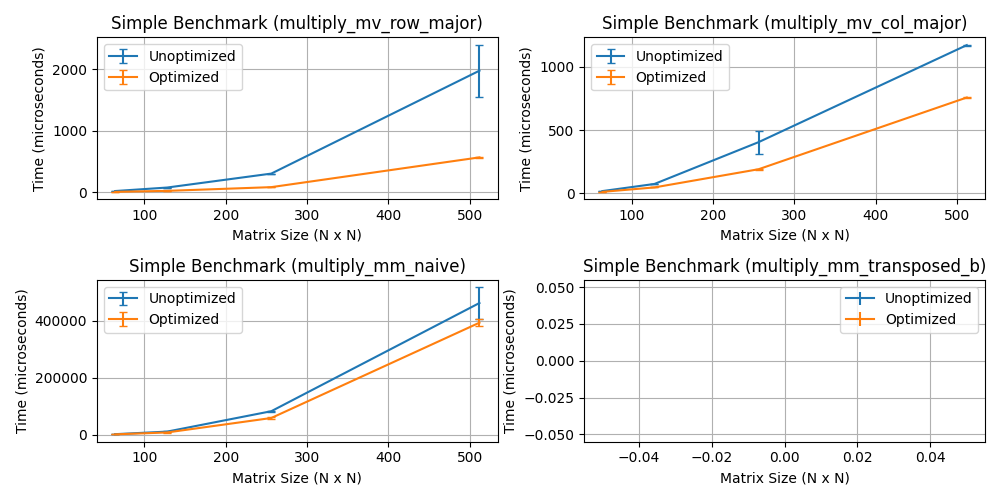
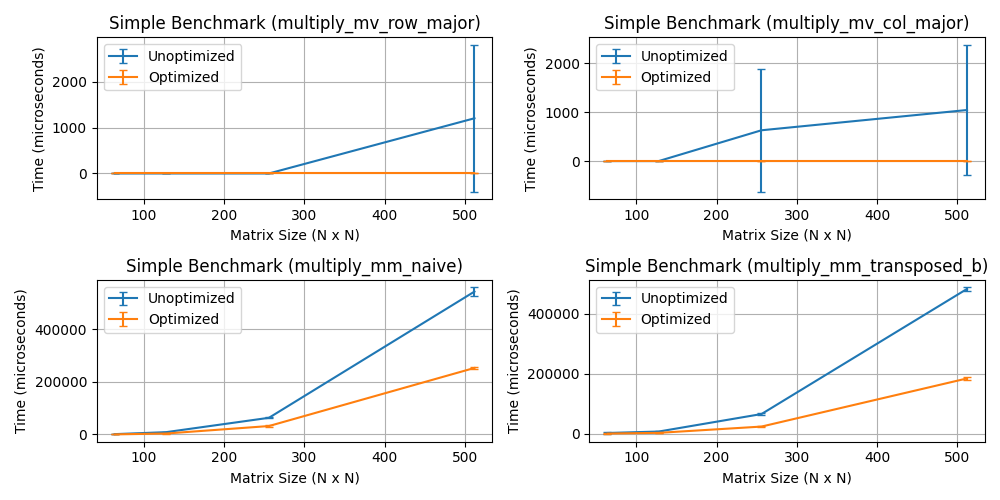
Added last function/updated graphs/csv

diff --git a/phase_1/src.cpp b/phase_1/src.cpp
@@ -233,3 +233,51 @@ void multiply_mm_naive_opt(const double* matrixA, int rowsA, int colsA, const do
         }
     }
 }
+void multiply_mm_transposed_b(const double* matrixA, int rowsA, int colsA, const double* matrixB_transposed, int rowsB, int colsB, double* result){
+    if (!matrixA) throw std::invalid_argument("matrixA pointer is null.");
+    if (!matrixB_transposed) throw std::invalid_argument("matrixB_transposed pointer is null.");
+    if (!result) throw std::invalid_argument("result pointer is null.");
+    if (rowsA <= 0) throw std::invalid_argument("rowsA must be positive.");
+    if (colsA <= 0) throw std::invalid_argument("colsA must be positive.");
+    if (rowsB <= 0) throw std::invalid_argument("rowsB must be positive.");
+    if (colsB <= 0) throw std::invalid_argument("colsB must be positive.");
+    if (colsA != rowsB) throw std::invalid_argument("dimension mismatch.");
+    std::fill(result, result + (rowsA * colsB), 0.0);
+    for(int i = 0; i < rowsA; ++i){
+        for(int j = 0; j < colsB; ++j){
+            double sum = 0.0;
+            for(int k = 0; k < colsA; ++k){
+                sum += matrixA[i * colsA + k] * matrixB_transposed[j * rowsB + k];
+            }
+            result[i * colsB + j] = sum;
+        }
+    }
+}
+
+void multiply_mm_transposed_b_opt(const double* matrixA, int rowsA, int colsA, const double* matrixB_transposed, int rowsB, int colsB, double* result){
+    if (!matrixA) throw std::invalid_argument("matrixA pointer is null.");
+    if (!matrixB_transposed) throw std::invalid_argument("matrixB_transposed pointer is null.");
+    if (!result) throw std::invalid_argument("result pointer is null.");
+    if (rowsA <= 0) throw std::invalid_argument("rowsA must be positive.");
+    if (colsA <= 0) throw std::invalid_argument("colsA must be positive.");
+    if (rowsB <= 0) throw std::invalid_argument("rowsB must be positive.");
+    if (colsB <= 0) throw std::invalid_argument("colsB must be positive.");
+    if (colsA != rowsB) throw std::invalid_argument("dimension mismatch.");
+    std::fill(result, result + (rowsA * colsB), 0.0);
+    for(int i = 0; i < rowsA; ++i){
+        for(int j = 0; j < colsB; ++j){
+            double s1 = 0.0, s2 = 0.0, s3 = 0.0, s4 = 0.0;
+            int k = 0;
+            for(; k <= colsA - 4; k += 4){
+                s1 += matrixA[i * colsA + (k + 0)] * matrixB_transposed[j * rowsB + (k + 0)];
+                s2 += matrixA[i * colsA + (k + 1)] * matrixB_transposed[j * rowsB + (k + 1)];
+                s3 += matrixA[i * colsA + (k + 2)] * matrixB_transposed[j * rowsB + (k + 2)];
+                s4 += matrixA[i * colsA + (k + 3)] * matrixB_transposed[j * rowsB + (k + 3)];
+            }
+            for(; k < colsA; ++k){
+                s1 += matrixA[i * colsA + k] * matrixB_transposed[j * rowsB + k];
+            }
+            result[i * colsB + j] = s1 + s2 + s3 + s4;
+        }
+    }
+}

diff --git a/phase_1/tests/test_src.cpp b/phase_1/tests/test_src.cpp
@@ -111,48 +111,43 @@ TEST_CASE("2x3 x 3x2, naive_opt", "[multiply_mm_naive_opt]")
     delete[] res;
 }
 
-// TEST_CASE("2x3 x 3x2, transposed B", "[multiply_mm_transposed_b]")
-// {
-//     double matrixA[] = {
-//         1.0, 2.0, 3.0,
-//         4.0, 5.0, 6.0
-//     };
-//     // This is the transpose of the same B (7,8; 9,10; 11,12),
-//     // so B_transposed is 2 x 3
-//     double matrixB_t[] = {
-//         7.0,  9.0,  11.0,
-//         8.0, 10.0,  12.0
-//     };
-//     double* res = new double[2 * 2];
+TEST_CASE("2x3 x 3x2, transposed B", "[multiply_mm_transposed_b]")
+{
+    double matrixA[] = {
+        1.0, 2.0, 3.0,
+        4.0, 5.0, 6.0
+    };
+    double matrixB_t[] = {
+        7.0,  9.0,  11.0,
+        8.0, 10.0,  12.0
+    };
+    double* res = new double[2 * 2];
+    multiply_mm_transposed_b(matrixA, 2, 3, matrixB_t, 3, 2, res);
+    REQUIRE(approx_equal_dbl(res[0], 58.0));
+    REQUIRE(approx_equal_dbl(res[1], 64.0));
+    REQUIRE(approx_equal_dbl(res[2], 139.0));
+    REQUIRE(approx_equal_dbl(res[3], 154.0));
+    delete[] res;
+}
 
-//     multiply_mm_transposed_b(matrixA, 2, 3, matrixB_t, 3, 2, res);
+TEST_CASE("2x3 x 3x2, transposed B opt", "[multiply_mm_transposed_b_opt]")
+{
+    double matrixA[] = {
+        1.0, 2.0, 3.0,
+        4.0, 5.0, 6.0
+    };
+    double matrixB_t[] = {
+        7.0,  9.0,  11.0,
+        8.0, 10.0,  12.0
+    };
+    double* res = new double[2 * 2];
+    multiply_mm_transposed_b_opt(matrixA, 2, 3, matrixB_t, 3, 2, res);
+    REQUIRE(approx_equal_dbl(res[0], 58.0));
+    REQUIRE(approx_equal_dbl(res[1], 64.0));
+    REQUIRE(approx_equal_dbl(res[2], 139.0));
+    REQUIRE(approx_equal_dbl(res[3], 154.0));
+    delete[] res;
+}
 
-//     REQUIRE(approx_equal_dbl(res[0],  58.0));
-//     REQUIRE(approx_equal_dbl(res[1],  64.0));
-//     REQUIRE(approx_equal_dbl(res[2], 139.0));
-//     REQUIRE(approx_equal_dbl(res[3], 154.0));
+        
 
-//     delete[] res;
-// }
-
-// TEST_CASE("2x3 x 3x2, transposed B opt", "[multiply_mm_transposed_b_opt]")
-// {
-//     double matrixA[] = {
-//         1.0, 2.0, 3.0,
-//         4.0, 5.0, 6.0
-//     };
-//     double matrixB_t[] = {
-//         7.0,  9.0,  11.0,
-//         8.0, 10.0,  12.0
-//     };
-//     double* res = new double[2 * 2];
-
-//     multiply_mm_transposed_b_opt(matrixA, 2, 3, matrixB_t, 3, 2, res);
-
-//     REQUIRE(approx_equal_dbl(res[0],  58.0));
-//     REQUIRE(approx_equal_dbl(res[1],  64.0));
-//     REQUIRE(approx_equal_dbl(res[2], 139.0));
-//     REQUIRE(approx_equal_dbl(res[3], 154.0));
-
-//     delete[] res;
-// }

diff --git a/phase_1/benchmarking.cpp b/phase_1/benchmarking.cpp
@@ -11,7 +11,7 @@ Benchmarker::Benchmarker()
 
 double* Benchmarker::random_vec(int size){
     double* vec = new double[size];
-    for(int i = 0; i <= size; ++i){
+    for(int i = 0; i < size; ++i){
         vec[i] = unif(gen);
     }
     return vec;
@@ -92,6 +92,49 @@ std::pair<double,double> Benchmarker::benchmark_mat_mat(
     delete[] matrix1; delete[] matrix2; delete[] res; delete[] times;
     return {mean, stddev};
 };
+
+std::pair<double,double> Benchmarker::benchmark_mat_mat_transposed(
+    void(*func)(const double*, int, int, const double*, int, int, double*),
+    int dim1,
+    int dim2,
+    int dim3,
+    int runs
+){
+    double* matrix1 = random_vec(dim1 * dim2);
+    double* matrix2 = random_vec(dim2 * dim3);
+    double* transposedB = new double[dim3 * dim2];
+    for(int r = 0; r < dim2; ++r){
+        for(int c = 0; c < dim3; ++c){
+            transposedB[c * dim2 + r] = matrix2[r * dim3 + c];
+        }
+    }
+    double* res = new double[dim1 * dim3];
+    double* times = new double[runs];
+    std::fill(times, times + runs, 0.0);
+
+    for(int i = 0; i < runs; i++){
+        std::fill(res, res + dim1 * dim3, 0.0);
+        auto start = std::chrono::high_resolution_clock::now();
+        func(matrix1, dim1, dim2, transposedB, dim2, dim3, res);
+        auto end = std::chrono::high_resolution_clock::now();
+        double elapsed = std::chrono::duration_cast<std::chrono::microseconds>(end - start).count();
+        times[i] = elapsed;
+    }
+    double sum = 0.0;
+    for(int i = 0; i < runs; i++) sum += times[i];
+    double mean = sum / runs;
+    double var = 0.0;
+    for(int i = 0; i < runs; i++) var += (times[i] - mean) * (times[i] - mean);
+    var /= runs;
+    double stddev = std::sqrt(var);
+
+    delete[] matrix1;
+    delete[] matrix2;
+    delete[] transposedB;
+    delete[] res;
+    delete[] times;
+    return {mean, stddev};
+}
 
 std::string Benchmarker::get_record_line(std::string func_name, int size, int runs, double mean, double std){
     std::string line = "";

diff --git a/phase_1/main.cpp b/phase_1/main.cpp
@@ -57,11 +57,11 @@ int main() {
         std::tie(mean, std) = benchmarker.benchmark_mat_mat(multiply_mm_naive_opt, s, s, s, runs);    
         std::cout << benchmarker.get_record_line("multiply_mm_naive_opt", s, runs, mean, std) << std::endl;
         
-        // std::tie(mean, std) = benchmarker.benchmark_mat_mat(multiply_mm_transposed_b, s, s, s, runs);    
-        // std::cout << benchmarker.get_record_line("multiply_mm_transposed_b", s, runs, mean, std) << std::endl;
+        std::tie(mean, std) = benchmarker.benchmark_mat_mat_transposed(multiply_mm_transposed_b, s, s, s, runs);    
+        std::cout << benchmarker.get_record_line("multiply_mm_transposed_b", s, runs, mean, std) << std::endl;
         
-        // std::tie(mean, std) = benchmarker.benchmark_mat_mat(multiply_mm_transposed_b_opt, s, s, s, runs);    
-        // std::cout << benchmarker.get_record_line("multiply_mm_transposed_b_opt", s, runs, mean, std) << std::endl;
+        std::tie(mean, std) = benchmarker.benchmark_mat_mat_transposed(multiply_mm_transposed_b_opt, s, s, s, runs);    
+        std::cout << benchmarker.get_record_line("multiply_mm_transposed_b_opt", s, runs, mean, std) << std::endl;
         
     }
 

diff --git a/phase_1/benchmarking.h b/phase_1/benchmarking.h
@@ -23,6 +23,13 @@ class Benchmarker {
             int dim3,
             int runs
         );
+        std::pair<double,double> benchmark_mat_mat_transposed(
+            void(*func)(const double*, int, int, const double*, int, int, double*),
+            int dim1,
+            int dim2,
+            int dim3,
+            int runs
+        );
         std::string get_record_line(std::string func_name, int size, int runs, double mean, double std);
 
     private:
